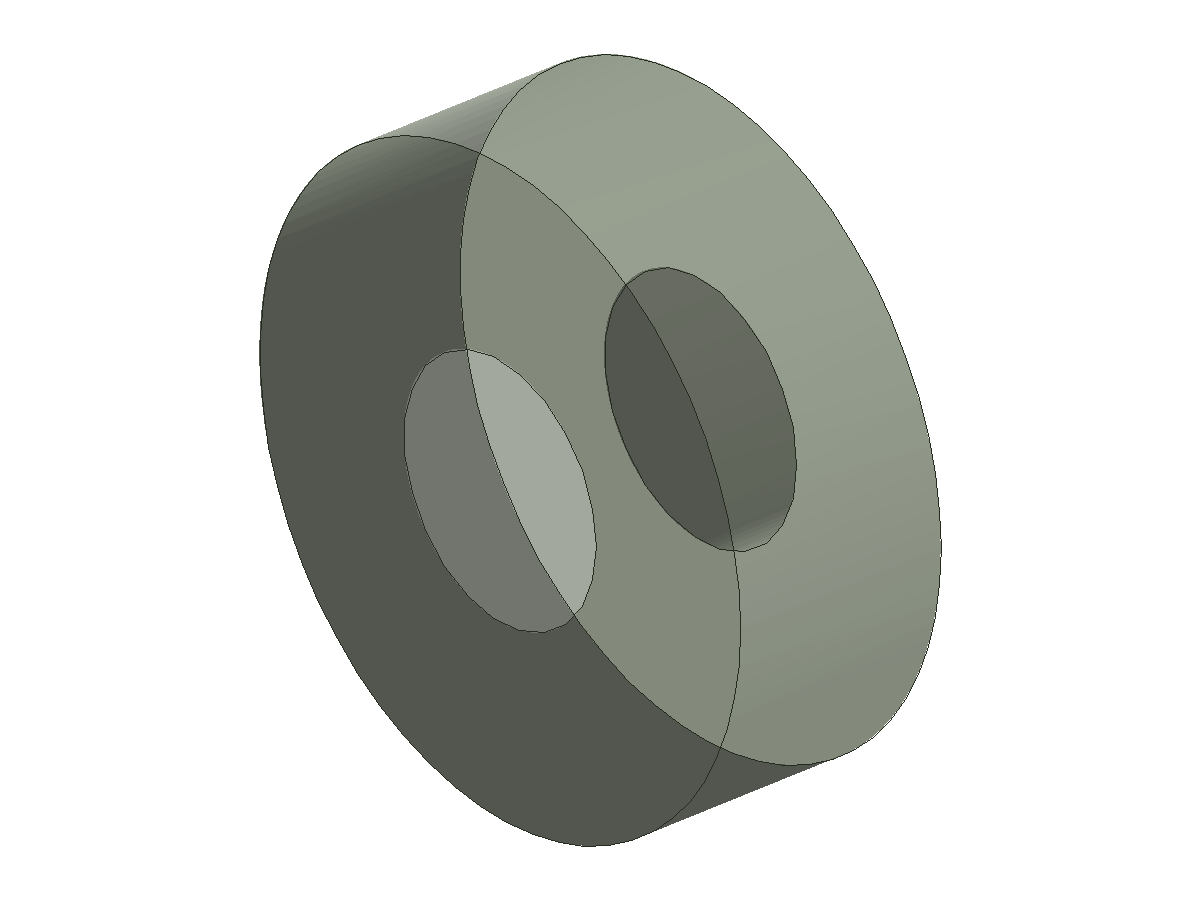
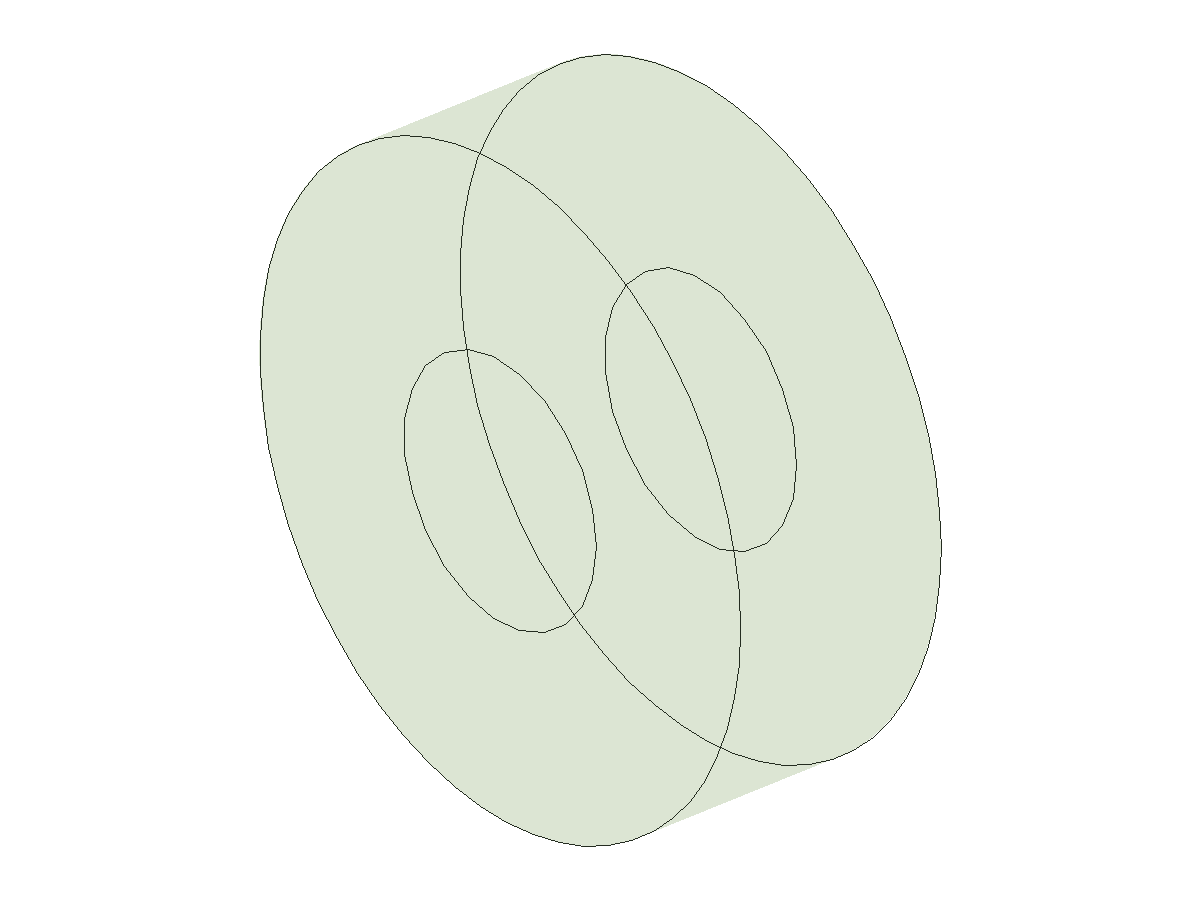
Smooth isometric shading across kernels

diff --git a/src/viewer/isometric_renderer.ts b/src/viewer/isometric_renderer.ts
@@ -31,7 +31,27 @@ export type IsoRenderLayer = {
   depthTest?: boolean;
 };
 
-type TransparentTriangle = {
+type SmoothShade = {
+  baseR: number;
+  baseG: number;
+  baseB: number;
+  ambient: number;
+  diffuse: number;
+  lightX: number;
+  lightY: number;
+  lightZ: number;
+  nx0: number;
+  ny0: number;
+  nz0: number;
+  nx1: number;
+  ny1: number;
+  nz1: number;
+  nx2: number;
+  ny2: number;
+  nz2: number;
+};
+
+type RasterTriangle = {
   x0: number;
   y0: number;
   z0: number;
@@ -52,10 +72,11 @@ type TransparentTriangle = {
   alpha: number;
   depthTest: boolean;
   depthBias: number;
+  smoothShade?: SmoothShade;
 };
 
 type QueuedTransparentLayer = {
-  triangles: TransparentTriangle[];
+  triangles: RasterTriangle[];
   wireframe:
     | {
         segments: number[];
@@ -219,7 +240,7 @@ export function renderIsometricPngLayers(
       : new Float32Array(width * height).fill(-Infinity);
     const isTransparentFill = (baseAlpha > 0 && baseAlpha < 1) || screenSpaceTint;
 
-    const layerTransparentTriangles: TransparentTriangle[] = [];
+    const layerTransparentTriangles: RasterTriangle[] = [];
 
     if (vertexCount > 0) {
       const viewX = new Float32Array(vertexCount);
@@ -227,6 +248,9 @@ export function renderIsometricPngLayers(
       const viewZ = new Float32Array(vertexCount);
       const screenX = new Float32Array(vertexCount);
       const screenY = new Float32Array(vertexCount);
+      const normalX = normalsOk ? new Float32Array(vertexCount) : null;
+      const normalY = normalsOk ? new Float32Array(vertexCount) : null;
+      const normalZ = normalsOk ? new Float32Array(vertexCount) : null;
       for (let i = 0; i < vertexCount; i += 1) {
         const idx = i * 3;
         const px = (positions[idx] ?? 0) - center[0];
@@ -240,6 +264,23 @@ export function renderIsometricPngLayers(
         viewZ[i] = vz;
         screenX[i] = screenCenterX + (vx - viewMidX) * scale;
         screenY[i] = screenCenterY - (vy - viewMidY) * scale;
+        if (normalsOk && normalX && normalY && normalZ) {
+          const worldNx = normals[idx] ?? 0;
+          const worldNy = normals[idx + 1] ?? 0;
+          const worldNz = normals[idx + 2] ?? 0;
+          const vxn =
+            right[0] * worldNx + right[1] * worldNy + right[2] * worldNz;
+          const vyn = up[0] * worldNx + up[1] * worldNy + up[2] * worldNz;
+          const vzn =
+            viewDir[0] * worldNx + viewDir[1] * worldNy + viewDir[2] * worldNz;
+          const nLen = Math.hypot(vxn, vyn, vzn);
+          if (nLen > 1e-6) {
+            const inv = 1 / nLen;
+            normalX[i] = vxn * inv;
+            normalY[i] = vyn * inv;
+            normalZ[i] = vzn * inv;
+          }
+        }
       }
 
       const indices = buildTriangleIndices(mesh, vertexCount);
@@ -264,7 +305,17 @@ export function renderIsometricPngLayers(
         if (Math.abs(denom) < 1e-6) continue;
         if (baseAlpha <= 0) continue;
 
-        const intensity = screenSpaceTint
+        // Use the mesh normals when we have them so curved faces shade smoothly
+        // across triangle boundaries in both native OCCT and occt.js previews.
+        const useSmoothShade =
+          !screenSpaceTint &&
+          !isTransparentFill &&
+          normalX !== null &&
+          normalY !== null &&
+          normalZ !== null;
+        const intensity = useSmoothShade
+          ? 1
+          : screenSpaceTint
           ? 1
           : isTransparentFill
           ? 1
@@ -287,15 +338,18 @@ export function renderIsometricPngLayers(
               0,
               1
             );
-        const r = clampByte((baseColor[0] ?? 0) * intensity);
-        const g = clampByte((baseColor[1] ?? 0) * intensity);
-        const b = clampByte((baseColor[2] ?? 0) * intensity);
+        const baseR = baseColor[0] ?? 0;
+        const baseG = baseColor[1] ?? 0;
+        const baseB = baseColor[2] ?? 0;
+        const r = clampByte(baseR * intensity);
+        const g = clampByte(baseG * intensity);
+        const b = clampByte(baseB * intensity);
 
         const minPx = clampInt(Math.floor(Math.min(x0, x1, x2)), 0, width - 1);
         const maxPx = clampInt(Math.ceil(Math.max(x0, x1, x2)), 0, width - 1);
         const minPy = clampInt(Math.floor(Math.min(y0, y1, y2)), 0, height - 1);
         const maxPy = clampInt(Math.ceil(Math.max(y0, y1, y2)), 0, height - 1);
-        const triangle: TransparentTriangle = {
+        const triangle: RasterTriangle = {
           x0,
           y0,
           z0,
@@ -317,6 +371,27 @@ export function renderIsometricPngLayers(
           depthTest: screenSpaceTint ? false : depthTest,
           depthBias:
             !screenSpaceTint && isTransparentFill && depthTest ? transparentDepthBias : 0,
+          smoothShade: useSmoothShade
+            ? {
+                baseR,
+                baseG,
+                baseB,
+                ambient,
+                diffuse,
+                lightX: lightDirView[0],
+                lightY: lightDirView[1],
+                lightZ: lightDirView[2],
+                nx0: normalX[i0] ?? 0,
+                ny0: normalY[i0] ?? 0,
+                nz0: normalZ[i0] ?? 0,
+                nx1: normalX[i1] ?? 0,
+                ny1: normalY[i1] ?? 0,
+                nz1: normalZ[i1] ?? 0,
+                nx2: normalX[i2] ?? 0,
+                ny2: normalY[i2] ?? 0,
+                nz2: normalZ[i2] ?? 0,
+              }
+            : undefined,
         };
         if (isTransparentFill) {
           layerTransparentTriangles.push(triangle);
@@ -424,7 +499,7 @@ export function renderIsometricPngLayers(
 function rasterizeTriangle(
   rgba: Buffer,
   width: number,
-  triangle: TransparentTriangle,
+  triangle: RasterTriangle,
   testBuffer: Float32Array | null,
   writeBuffer: Float32Array | null
 ): void {
@@ -450,6 +525,38 @@ function rasterizeTriangle(
       const prior = testBuffer?.[idx] ?? -Infinity;
       if (z < prior - 1e-6) continue;
       if (writeBuffer) writeBuffer[idx] = z;
+      const smoothShade = triangle.smoothShade;
+      if (smoothShade) {
+        let nx =
+          w0 * smoothShade.nx0 + w1 * smoothShade.nx1 + w2 * smoothShade.nx2;
+        let ny =
+          w0 * smoothShade.ny0 + w1 * smoothShade.ny1 + w2 * smoothShade.ny2;
+        let nz =
+          w0 * smoothShade.nz0 + w1 * smoothShade.nz1 + w2 * smoothShade.nz2;
+        const nLen = Math.hypot(nx, ny, nz);
+        let intensity = smoothShade.ambient;
+        if (nLen > 1e-6) {
+          const inv = 1 / nLen;
+          nx *= inv;
+          ny *= inv;
+          nz *= inv;
+          const dotNL =
+            nx * smoothShade.lightX +
+            ny * smoothShade.lightY +
+            nz * smoothShade.lightZ;
+          intensity += smoothShade.diffuse * Math.max(0, dotNL);
+        }
+        intensity = clamp(intensity, 0, 1);
+        blendPixel(
+          rgba,
+          idx * 4,
+          clampByte(smoothShade.baseR * intensity),
+          clampByte(smoothShade.baseG * intensity),
+          clampByte(smoothShade.baseB * intensity),
+          triangle.alpha
+        );
+        continue;
+      }
       blendPixel(rgba, idx * 4, triangle.r, triangle.g, triangle.b, triangle.alpha);
     }
   }
@@ -457,7 +564,7 @@ function rasterizeTriangle(
 
 function captureTransparentTriangle(
   width: number,
-  triangle: TransparentTriangle,
+  triangle: RasterTriangle,
   opaqueDepth: Float32Array | null,
   transparentDepth: Float32Array,
   transparentPixels: Buffer

diff --git a/src/tests/viewer_isometric.e2e.test.ts b/src/tests/viewer_isometric.e2e.test.ts
@@ -23,6 +23,23 @@ function makeQuadMesh(z: number): MeshData {
   };
 }
 
+function makeGradientTriangleMesh(): MeshData {
+  const tilted = Math.sqrt(0.5);
+  return {
+    positions: [
+      -1, -1, 0,
+       1, -1, 0,
+       0,  1.2, 0,
+    ],
+    indices: [0, 1, 2],
+    normals: [
+      0, 0, 1,
+      tilted, 0, tilted,
+      0, 0, 1,
+    ],
+  };
+}
+
 function readPngPixel(png: Buffer, x: number, y: number): [number, number, number, number] {
   const signature = png.subarray(0, 8);
   assert.deepEqual(
@@ -208,6 +225,36 @@ const tests = [
       assert.ok(b > 80, "front transparent layer should tint the opaque base");
       assert.ok(g > b, "opaque base should remain visible through the front transparent layer");
       assert.ok(r < 24, "behind transparent layer should not leak through the opaque base");
+    },
+  },
+  {
+    name: "viewer isometric: interpolates mesh normals across opaque triangles",
+    fn: async () => {
+      const png = renderIsometricPng(makeGradientTriangleMesh(), {
+        width: 120,
+        height: 120,
+        padding: 12,
+        viewDir: [0, 0, 1],
+        lightDir: [1, 0, 1],
+        ambient: 0,
+        diffuse: 1,
+        background: [255, 255, 255],
+        backgroundAlpha: 1,
+        baseColor: [180, 200, 220],
+        wireframe: false,
+      });
+      const left = readPngPixel(png, 42, 74);
+      const right = readPngPixel(png, 78, 74);
+      assert.ok(left[3] > 0, "left sample should land on the rendered triangle");
+      assert.ok(right[3] > 0, "right sample should land on the rendered triangle");
+      assert.ok(
+        right[0] - left[0] > 24,
+        "right side should shade brighter than left when normals are interpolated"
+      );
+      assert.ok(
+        right[1] - left[1] > 24,
+        "green channel should also show a smooth lighting ramp across the triangle"
+      );
     },
   },
   {
